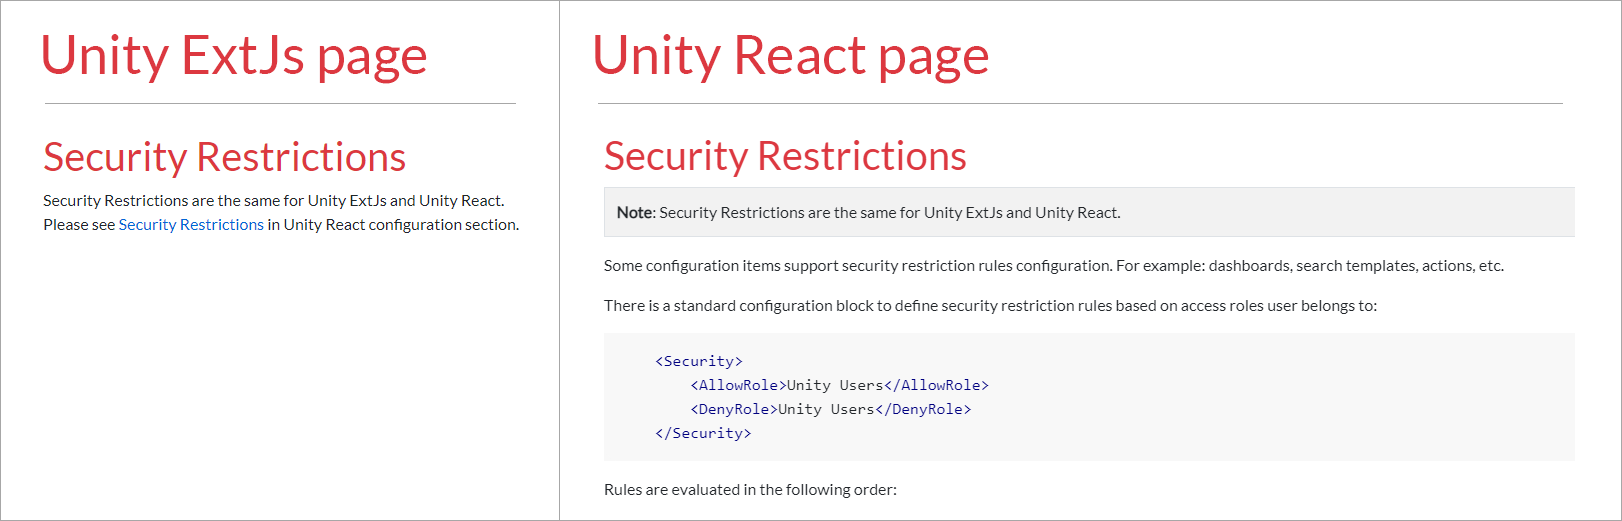
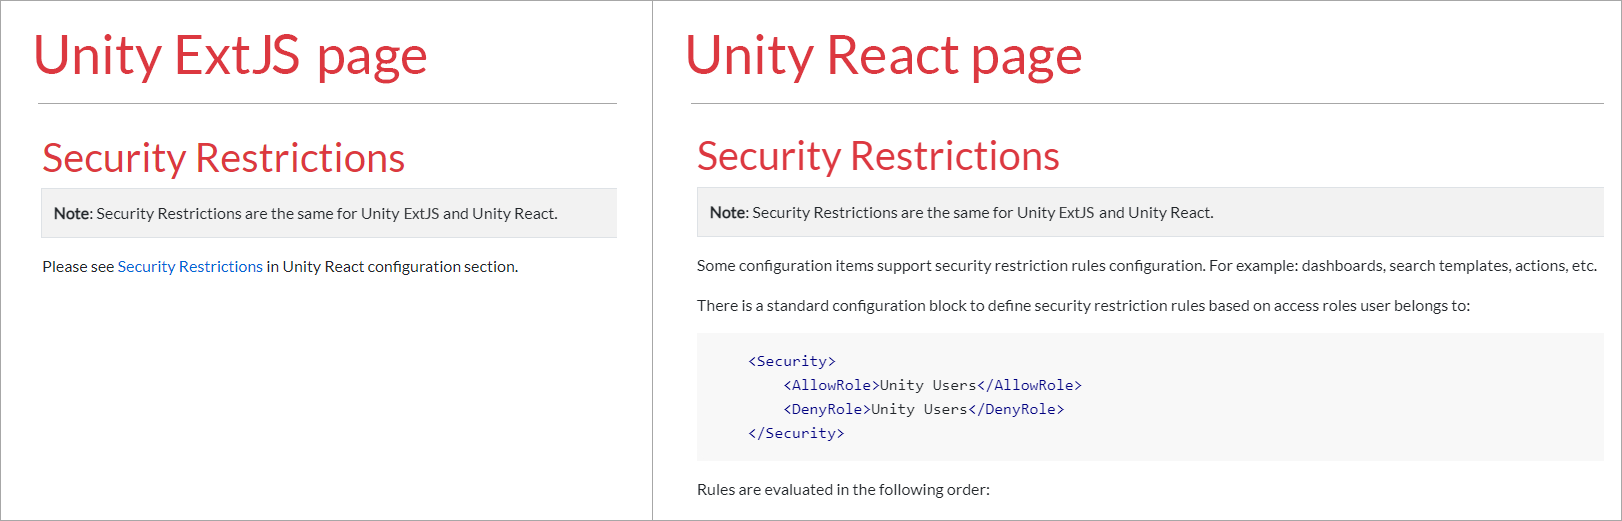
Improving content

diff --git a/_docs/tutorials/how-to-add-page-to-doc-portal.md b/_docs/tutorials/how-to-add-page-to-doc-portal.md
@@ -3,13 +3,14 @@ title: How to Add a Page to Documentation Portal
 layout: docs
 category: Unity 7
 ---
-Documentation portal - [https://docs.intellectivelab.com/](https://docs.intellectivelab.com/)  
-Documentation portal github repository - [https://github.com/intellectivelab/docs.intellectivelab.com](https://github.com/intellectivelab/docs.intellectivelab.com)
+# Prerequisites
 
 To edit and add new content to documentation portal you should:
 - know basic [Markdown syntax](how-to-add-page-to-doc-portal/markdown-syntax.md)
 - have environment and basic skills to work with [git](https://docs.github.com/en/free-pro-team@latest/github/getting-started-with-github/git-and-github-learning-resources)
 - be a member of Intellective github organization called `intellectivelab` 
+
+# How to Add a New Content to the Project
 
 To add a new content to the project perform the following steps:
 - Clone [documentation portal github repository]((https://github.com/intellectivelab/docs.intellectivelab.com)) to your local environment.  
@@ -41,3 +42,10 @@ requirements described in [How to Create a Page](how-to-add-page-to-doc-portal/h
     [How to Review Pull Request](how-to-add-page-to-doc-portal/how-to-review-pull-request.md)  
 - Merging will be performed by a technical writer or doc portal support (ozimakov-intellective). 
 - After merging, your content will appear on [documentation portal](https://docs.intellectivelab.com/) in seconds.
+
+# References
+
+Documentation portal - [https://docs.intellectivelab.com/](https://docs.intellectivelab.com/)   
+Documentation portal github repository - [https://github.com/intellectivelab/docs.intellectivelab.com](https://github.com/intellectivelab/docs.intellectivelab.com)  
+[How to Create a Page](how-to-add-page-to-doc-portal/how-to-create-page.md)  
+[How to Review Pull Request](how-to-add-page-to-doc-portal/how-to-review-pull-request.md) 

diff --git a/_docs/tutorials/how-to-add-page-to-doc-portal/how-to-review-pull-request.md b/_docs/tutorials/how-to-add-page-to-doc-portal/how-to-review-pull-request.md
@@ -5,17 +5,21 @@ category: Unity 7
 ---
 - Open pull request (PR) from [pull requests page](https://github.com/intellectivelab/docs.intellectivelab.com/pulls) 
 - Select `Files changed` tab and look through changes in files
-- To add a comment use `+` sign near row number, it appears when hovering mouse on the row:
-
-    ![Comment](how-to-review-pull-request/images/comment.png)
-
-- Use `View file` from dropdown toolbar menu:
+- Click `View file` from dropdown toolbar menu on the right:
 
     ![View file](how-to-review-pull-request/images/view-file.png)
     
-    In this case you will see a page almost how it will look on doc portal, images are shown and links work, but the table of contents is not shown.
+    You will see a page almost how it will look on doc portal, images are shown and links work, but navigation tree and table of contents are not shown and styling may differ. 
+    
+- Check the files do not contain confidential information like passwords, customer data etc  
+- To add a comment on `Files changed` tab click `+` sign near row number, it appears when hovering mouse on the row:
 
-- Check the files do not contain confidential information like passwords, customer data etc
+    ![Comment](how-to-review-pull-request/images/comment.png)
+
 - To approve PR use `Review changes` button:
 
     ![Approve](how-to-review-pull-request/images/approve.png)
+    
+    You can comment PR or request changes instead.
+    
+- Do not merge PR even if there are all required approvals, merging will be performed by a technical writer (ikozyr-intellective) or doc portal support (ozimakov-intellective)

diff --git a/_docs/tutorials/how-to-add-page-to-doc-portal/how-to-create-page.md b/_docs/tutorials/how-to-add-page-to-doc-portal/how-to-create-page.md
@@ -128,14 +128,14 @@ To insert a link to external page type:
 Don't use `here` as a link title, always try to use a meaningful name.  
 Use `[url](url)` if you need to make url visible.
 
-### Links between Unity ExtJs and Unity React
+### Links between Unity ExtJS and Unity React
 
-Some content is common for Unity ExtJs and React. Do not create pages with the same content, use links instead:
+Some content is common for Unity ExtJS and React. Do not create pages with the same content, use links instead:
 
-- Write a note that this content is the same for both Unity and place this note on both pages.
-- Place a content just on one of them (preferrably in Unity React), and place a link on another.  
+- Write a note that this content is the same for both Unity and place this note on both pages
+- Place a content just on one of them (preferably in Unity React), and place a link on another:  
 
-![ExtJs-React linking](how-to-create-page/images/extjs-react-linking.png)
+![ExtJS-React linking](how-to-create-page/images/extjs-react-linking.png)
 
 ### Downloads
 
